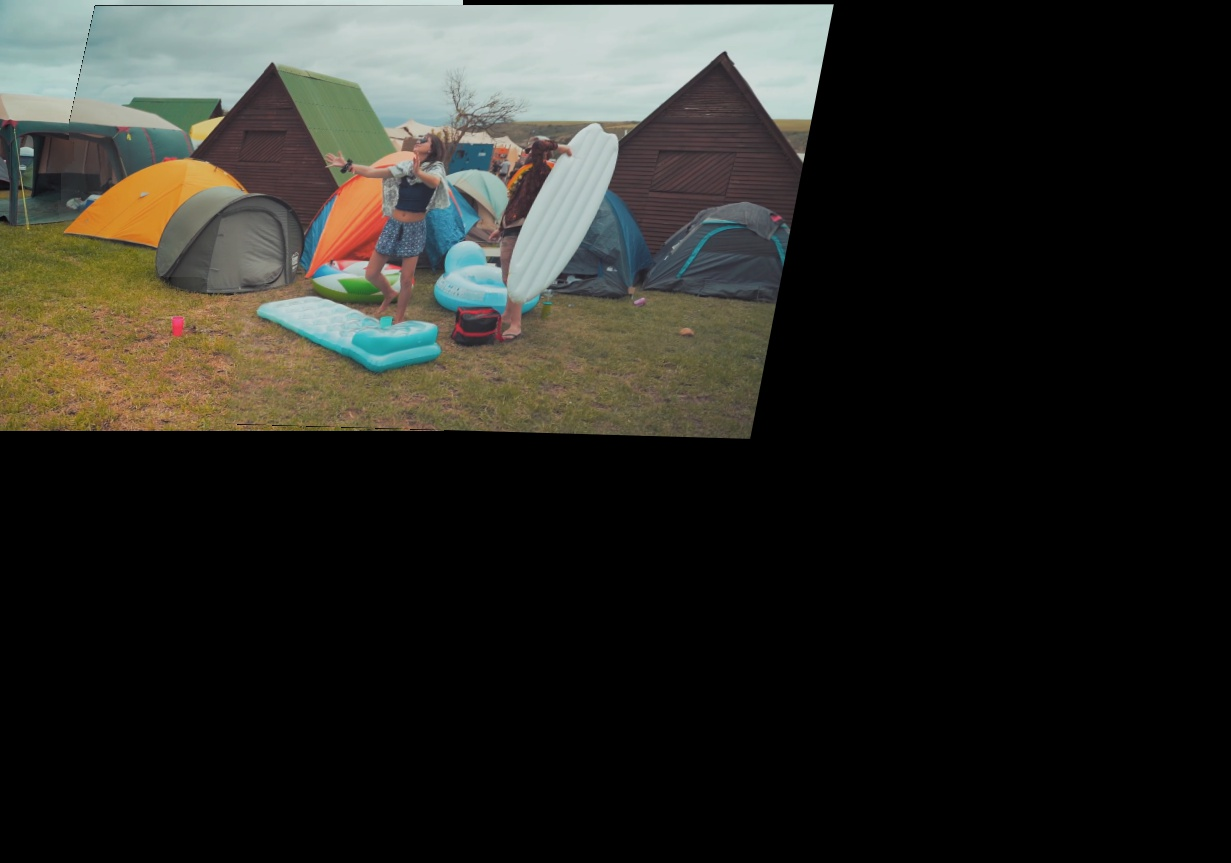
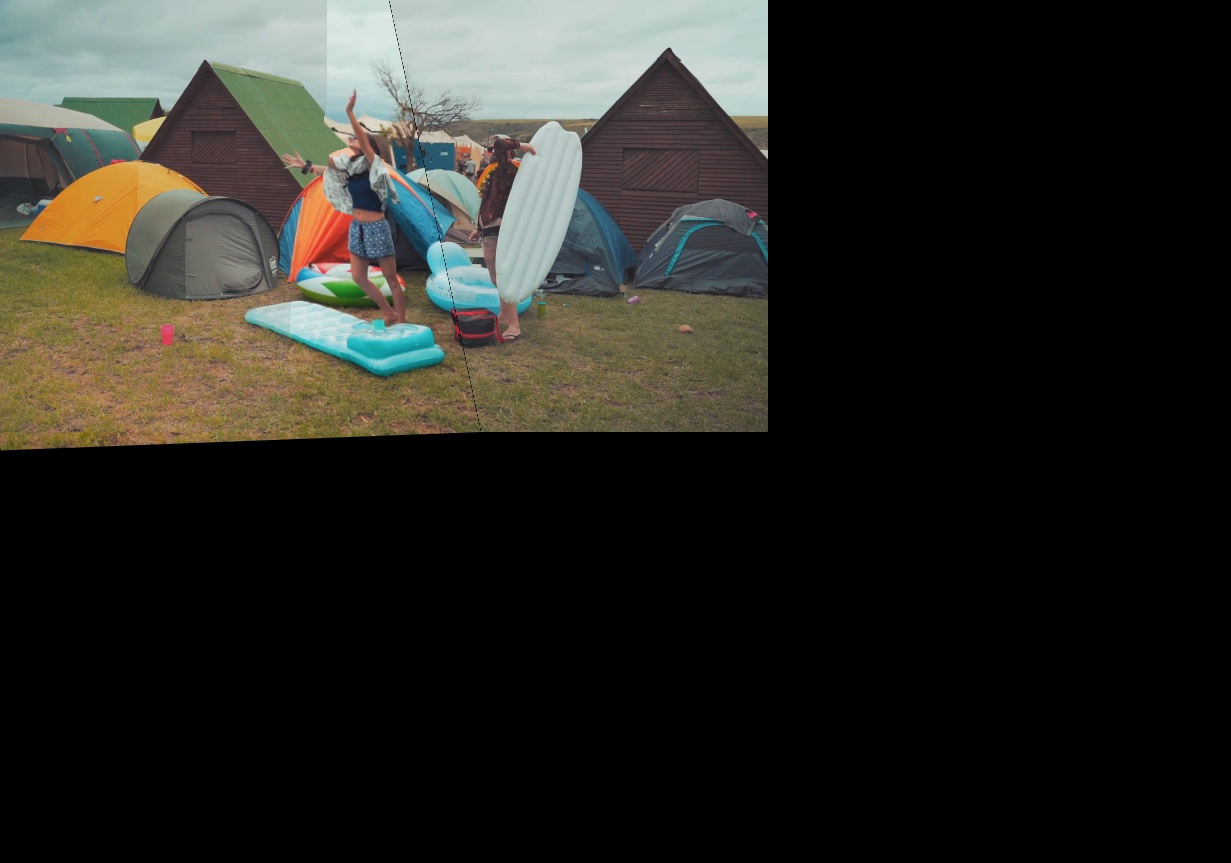
final - after sample images

Changed region(s): [[0.0, 0.0, 0.6791, 0.5423]]

diff --git a/createmosaic.py b/createmosaic.py
@@ -1,13 +1,100 @@
 import cv2
-import matplotlib.pyplot as plt
 import numpy as np
+# import matplotlib.pyplot as plt
+import os
+import maxflow
+import argparse
 
-image1 = cv2.imread("val_set/1/1a.png", flags=cv2.IMREAD_GRAYSCALE)
-image2 = cv2.imread("val_set/1/1b.png", flags=cv2.IMREAD_GRAYSCALE)
-delta = image1-image2
-plt.imshow(image1, cmap='gray')
-plt.show()
-plt.imshow(image2, cmap='gray')
-plt.show()
-plt.imshow(delta, cmap='gray')
-plt.show()
+if __name__ == "__main__":
+    parser = argparse.ArgumentParser(description='Generation Script for segmentation of Gall Bladder Images')
+    parser.add_argument('-i', '--input_path', type=str, default='img', required=True, help="Path for the input image folder")
+    
+    args = parser.parse_args()
+    files_in_direc = os.listdir(args.input_path)
+    img_ = cv2.imread(args.input_path+'/'+files_in_direc[1])
+    frac = 0.4
+    dim = (int(img_.shape[1]*frac), int(img_.shape[0]*frac))
+    img_ = cv2.resize(img_, dim, interpolation = cv2.INTER_AREA)
+    img1 = cv2.cvtColor(img_,cv2.COLOR_BGR2GRAY)
+    img = cv2.imread(args.input_path+'/'+files_in_direc[0])
+    dim = (int(img.shape[1]*frac), int(img.shape[0]*frac))
+    img = cv2.resize(img, dim, interpolation = cv2.INTER_AREA)
+    img2 = cv2.cvtColor(img,cv2.COLOR_BGR2GRAY)
+
+    sift = cv2.xfeatures2d.SIFT_create()
+    kp1, des1 = sift.detectAndCompute(img1,None)
+    kp2, des2 = sift.detectAndCompute(img2,None)
+
+    bf = cv2.BFMatcher()
+    matches = bf.knnMatch(des1,des2, k=2)
+    good = []
+    for m in matches:
+        if m[0].distance < 0.75*m[1].distance:
+            good.append(m)
+    matches = np.asarray(good)
+
+    if len(matches[:,0]) >= 4:
+        src = np.float32([ kp1[m.queryIdx].pt for m in matches[:,0] ]).reshape(-1,1,2)
+        dst = np.float32([ kp2[m.trainIdx].pt for m in matches[:,0] ]).reshape(-1,1,2)
+        H1, masked = cv2.findHomography(src, dst, cv2.RANSAC, 5.0)
+    else:
+        raise AssertionError("Can’t find enough keypoints.")
+    
+    bf = cv2.BFMatcher()
+    matches = bf.knnMatch(des2,des1, k=2)
+
+    # Apply ratio test
+    good = []
+    for m in matches:
+        if m[0].distance < 0.75*m[1].distance:
+            good.append(m)
+    matches = np.asarray(good)
+
+    if len(matches[:,0]) >= 4:
+        src = np.float32([ kp2[m.queryIdx].pt for m in matches[:,0] ]).reshape(-1,1,2)
+        dst = np.float32([ kp1[m.trainIdx].pt for m in matches[:,0] ]).reshape(-1,1,2)
+        H2, masked = cv2.findHomography(src, dst, cv2.RANSAC, 5.0)
+    else:
+        raise AssertionError("Can’t find enough keypoints.")
+
+    dst = cv2.warpPerspective(img_,H1,(img.shape[1]+img_.shape[1], img.shape[0]+img_.shape[0]))
+    min_row, min_col = min(img.shape[:2], img_.shape[:2])
+    structure = np.array([[0, 0, 0],
+                        [0, 0, 1],
+                        [0, 1, 0]])
+    c1 = np.dot(H1, np.array([img.shape[0]//2, img.shape[1]//2, 1]))
+    c2 = np.dot(H2, np.array([img_.shape[0]//2, img_.shape[1]//2, 1]))
+    print(c1, c2)
+    if sum(c1)>sum(c2) or sum(c2)-sum(c1) < 0.1*sum(c1):
+        g = maxflow.Graph[float]()
+        nodes = g.add_grid_nodes(img.shape[:2])
+        weights = np.linalg.norm(dst[:img.shape[0], :img.shape[1]]-img, axis=2)
+        g.add_grid_edges(nodes, weights=weights, structure=structure, symmetric=True)
+        temp1, temp2 = np.zeros(img.shape[:2]), np.zeros(img.shape[:2])
+        temp1[:, 0] = np.inf
+        temp2[:, -1] = np.inf
+        g.add_grid_tedges(nodes, temp1, temp2)
+        g.maxflow()
+        result = g.get_grid_segments(nodes)
+        for i in range(img.shape[0]):
+            for j in range(img.shape[1]):
+                if not result[i, j] or dst[i, j].all() == 0:
+                    dst[i, j] = img[i, j]
+        cv2.imwrite(args.input_path+'/output.jpg',dst)
+    else:
+        dst = cv2.warpPerspective(img,H2,(img.shape[1]+img_.shape[1], img.shape[0]+img_.shape[0]))
+        g = maxflow.Graph[float]()
+        nodes = g.add_grid_nodes(img_.shape[:2])
+        weights = np.linalg.norm(dst[:img_.shape[0], :img_.shape[1]]-img_, axis=2, ord=2)
+        g.add_grid_edges(nodes, weights=weights, structure=structure, symmetric=True)
+        temp1, temp2 = np.zeros(img_.shape[:2]), np.zeros(img_.shape[:2])
+        temp1[:, 0] = np.inf
+        temp2[:, -1] = np.inf
+        g.add_grid_tedges(nodes, temp1, temp2)
+        g.maxflow()
+        result = g.get_grid_segments(nodes)
+        for i in range(img_.shape[0]):
+            for j in range(img_.shape[1]):
+                if not result[i, j] or dst[i, j].all() == 0:
+                    dst[i, j] = img_[i, j]
+        cv2.imwrite(args.input_path+'/output.jpg',dst)
